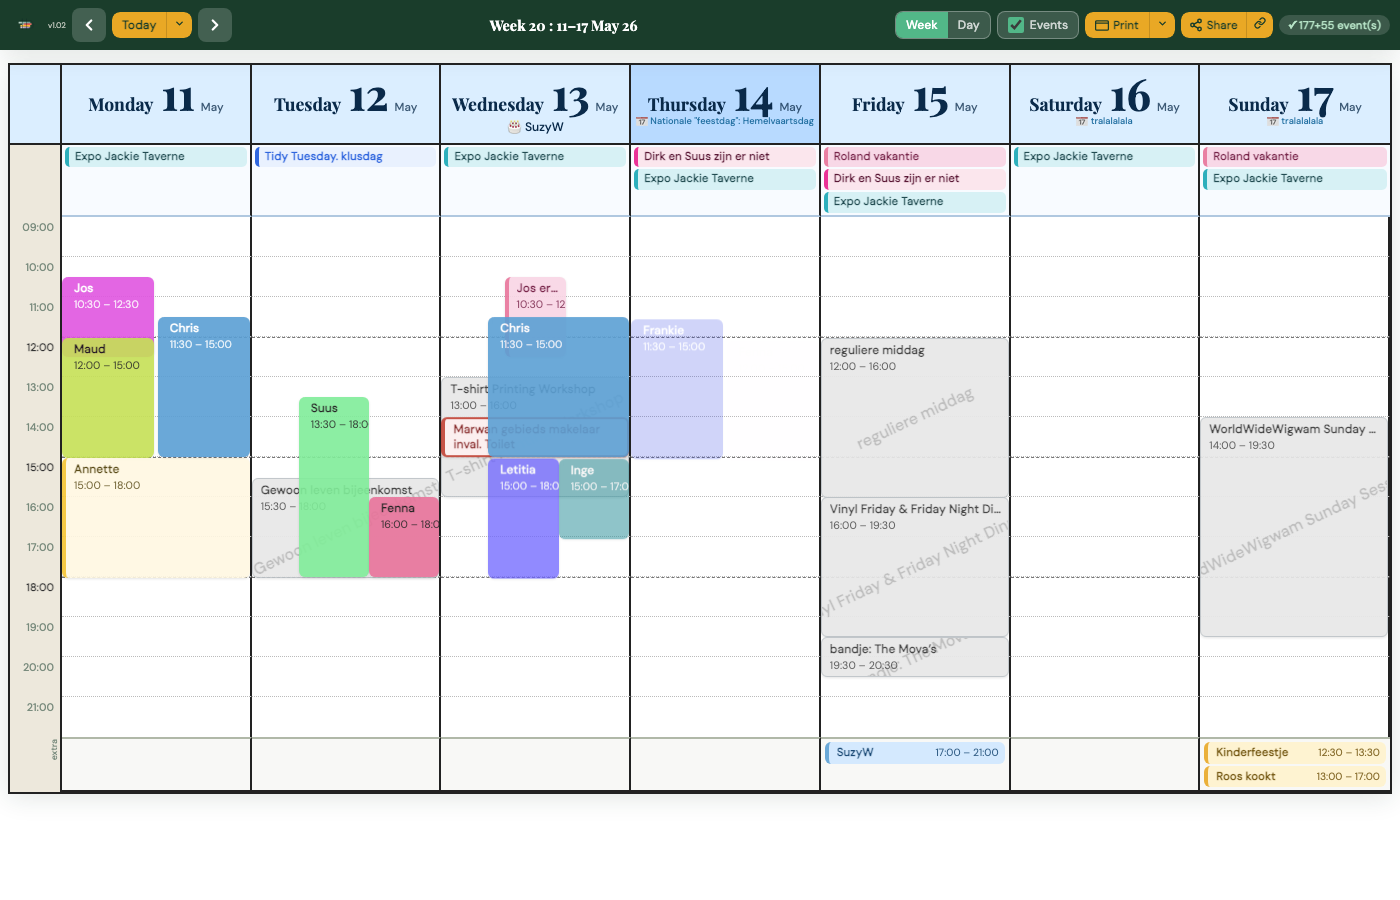
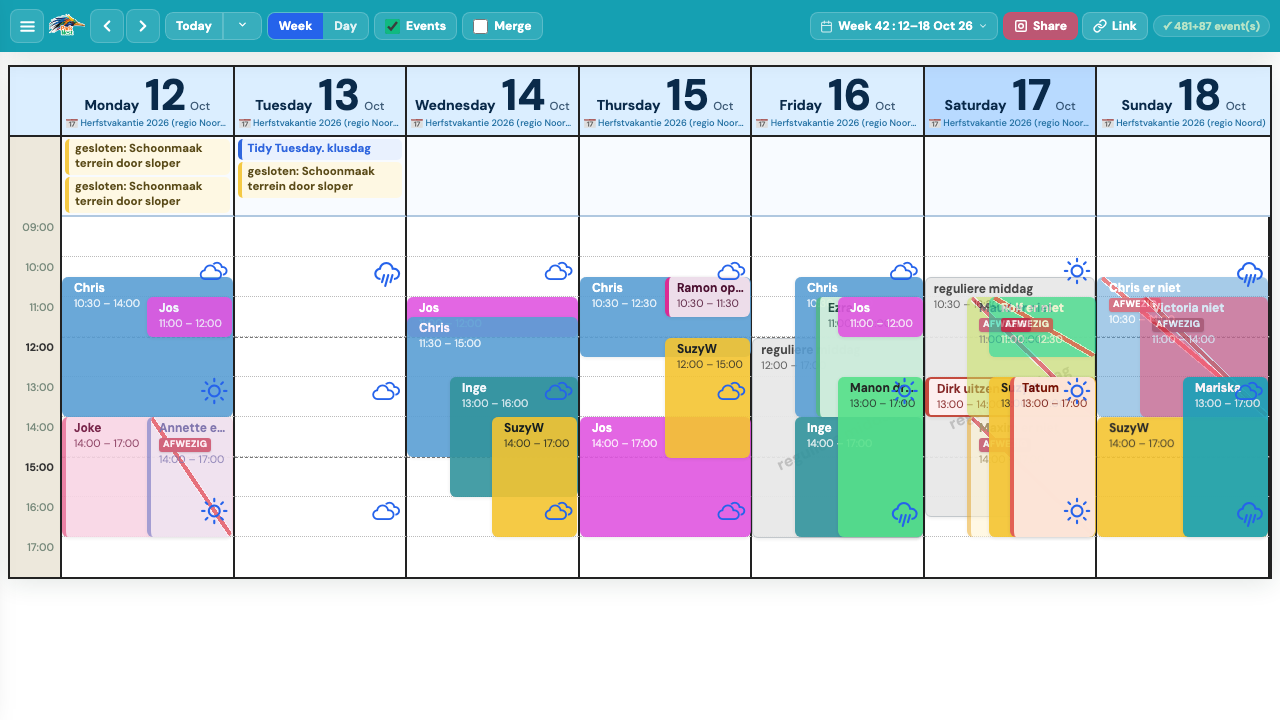
Update README and screenshot for October 2026 release
- Document weather integration, absence detection, Mono theme
- Add weather configuration section and proxy refresh=1 note
- Update themes table to all six themes
- Update architecture tree with new files (weather.php, fonts, mono.css, etc.)
- Update settings table with weather icon and temperature toggles
- Replace week-view screenshot with current live screenshot showing weather and absence features

diff --git a/README.md b/README.md
@@ -7,7 +7,7 @@
 **All rosters, calendars and events in one clear overview.**
 
 <table align="right" style="margin-left:24px;border:none">
-  <tr><td align="center"><img src="docs/screen-week-desktop.png" alt="Week view — desktop" width="600"><br><sub>Week view — desktop</sub></td></tr>
+  <tr><td align="center"><img src="docs/screen-week-desktop.png" alt="Week view — desktop with weather" width="600"><br><sub>Week view — weather integration, absence detection · October 2026</sub></td></tr>
   <tr><td align="center"><img src="docs/screen-week-tablet.png" alt="Week view — medium screen" width="400"><br><sub>Week view — medium screen (split layout)</sub></td></tr>
   <tr>
     <td align="center">
@@ -54,12 +54,14 @@ Because all these layers appear together in a single view, the connections becom
 
 - **Multi-calendar overlay** — read multiple ICS feeds and render them as one visual schedule
 - **Week view and day view** — responsive grid that adapts to desktop, tablet and phone
+- **Weather integration** — live hourly forecasts from Open-Meteo overlaid directly on the schedule as floating icon + temperature badges; weather icon and temperature display are independently toggleable in the settings panel
+- **Absence detection** — events whose title contains absence keywords (`afwezig`, `vakantie`, `niet`) are visually marked with a diagonal red stripe and an AFWEZIG badge; merge-shifts mode hides them from the schedule entirely
 - **Hours overview** — compact worked-hours report per volunteer, with week/month/year totals and inline drill-downs for payment administration
 - **Day-view week strip** — tap any day chip to navigate; selected day highlighted with a filled circle
 - **Full-screen day view** — day view stretches edge-to-edge for maximum readability
 - **Colour-coded crew** — each volunteer gets a personal colour; shifts are instantly recognisable
 - **All-day event pills** — multi-day events span across the top of the grid
-- **Important dates** — holidays, school vacations and custom date ranges shown as labels on calendar days, managed via the admin panel
+- **Important dates** — holidays, school vacations and custom date ranges shown as labels on calendar day headers, managed via the admin panel
 - **ICS import for important dates** — upload an `.ics` file; consecutive same-named events are automatically collapsed into date ranges; category prefixes (`Schoolvakantie:`, `Nationale feestdag:` etc.) are stripped automatically
 - **Always-show days** — configure which weekdays are always visible vs. hidden when empty
 - **Week start** — choose Monday or Sunday as the first day of the week (persisted per-user in a cookie)
@@ -69,8 +71,8 @@ Because all these layers appear together in a single view, the connections becom
 - **PWA** — installable on Android, iOS and desktop; "Install as app" button in the hamburger menu, including iPhone/iPad instructions
 - **Auto-update detection** — the app polls for file changes every 10 minutes and on tab focus; when a new version is deployed a pulsing badge appears on the hamburger and a reload prompt inside the drawer
 - **Auto-refresh** — configurable calendar refresh interval (5 / 15 / 30 / 60 min or off) stored per-user in a cookie; scheduled/manual refreshes force a fresh ICS fetch
-- **Hamburger drawer** — always-visible slide-in menu containing Hours overview, Print, Share, Install, Settings (theme, week start, refresh interval) and version / author info
-- **Theme system** — three built-in themes; add your own by dropping a CSS file in `app/`
+- **Hamburger drawer** — always-visible slide-in menu containing Hours overview, Print, Share, Install, Settings (theme, week start, refresh interval, weather toggles) and version / author info
+- **Theme system** — six built-in themes; add your own by dropping a CSS file in `app/`
 - **Spring-curve event animations** — crew shifts pop in with an overshoot spring animation
 - **No database** — the entire configuration lives in a single JavaScript file (`overlap-config.js`)
 
@@ -78,13 +80,17 @@ Because all these layers appear together in a single view, the connections becom
 
 ## Themes
 
-Overlap ships with three themes, selectable in the Display admin page or the in-app settings drawer:
+Overlap ships with six themes, selectable in the Display admin page or the in-app settings drawer:
 
 | Theme | Description |
 |---|---|
 | **Blockery** | Bold grid with thick black borders and large date numbers (default) |
 | **Softy** | Rounded layout with circle day labels, no black borders, white header |
-| **Nova** | Dark space aesthetic: navy/indigo header, pastel crew shifts with shimmer animation, white time column |
+| **Nova** | Dark space aesthetic: navy/indigo header, pastel crew shifts with shimmer animation |
+| **Sketchy** | Hand-drawn look with rough borders and a handwritten font |
+| **Mono** | High-contrast black-and-white; ideal for print-like clarity |
+
+Each theme includes its own weather float styling (floating icon + temperature badge on the schedule grid).
 
 To add your own theme, create `app/mytheme.css` with selectors prefixed by `body.theme-mytheme {}`. It will appear automatically in the theme selector in the admin panel.
 
@@ -112,14 +118,20 @@ Changes are written back to `overlap-config.js` immediately. The manifest (`over
 overlap/
 ├── index.php                   # Main calendar app (PHP shell — reads config for theme/branding)
 ├── app/
-│   ├── overlap.js              # Calendar engine (rendering, ICS parsing, PWA)
-│   ├── overlap.css             # Base calendar styles
+│   ├── overlap.js              # Calendar engine (rendering, ICS parsing, PWA, weather, absences)
+│   ├── overlap.css             # Base calendar styles (incl. weather floats, absence styles)
 │   ├── blockery.css            # Blockery theme marker (styles embedded in overlap.css)
 │   ├── softy.css               # Softy theme marker (styles embedded in overlap.css)
 │   ├── nova.css                # Nova dark theme — full standalone overrides
+│   ├── sketchy.css             # Sketchy hand-drawn theme
+│   ├── mono.css                # Mono high-contrast B&W theme
+│   ├── weather.php             # Server-side Open-Meteo proxy (92-day cache, stale fallback)
+│   ├── weather-icons.css       # Weather Icons 2.0.10 library (webfont-based)
+│   ├── fonts/
+│   │   └── weathericons-regular-webfont.woff2  # Weather icon webfont (SIL OFL 1.1)
 │   ├── overlap-config.js       # Live config (generated; do not edit by hand)
 │   ├── overlap-manifest.json   # PWA manifest (auto-generated from branding)
-│   ├── proxy.php               # Server-side ICS proxy and short cache
+│   ├── proxy.php               # Server-side ICS proxy and short cache (?refresh=1 to bypass)
 │   ├── icon-192.png            # PWA icon — overwritten on logo upload
 │   └── icon-512.png            # PWA icon — overwritten on logo upload
 ├── manage/
@@ -128,6 +140,7 @@ overlap/
 │   ├── volunteers.php          # Crew management
 │   ├── schedule.php            # Schedule settings + important dates + ICS import
 │   ├── display.php             # Branding + display settings + logo upload
+│   ├── admin.js                # Management panel JavaScript
 │   ├── api.php                 # AJAX endpoint (calendar test, etc.)
 │   ├── _header.php             # Shared nav header (mobile-responsive drawer)
 │   └── _footer.php             # Shared footer
@@ -136,7 +149,11 @@ overlap/
 │   └── CalendarDiagnostics.php # ICS fetch, parse and health-check
 ├── assets/
 │   ├── css/admin.css           # Admin panel styles
-│   └── js/admin.js             # Admin panel JS (crew sort, calendar test, toasts)
+│   ├── js/admin.js             # Admin panel JS (crew sort, calendar test, toasts)
+│   └── fonts/
+│       ├── handdrawn-icons.ttf # Handdrawn icon font (Sketchy theme)
+│       └── handdrawn-icons.woff
+├── weather-icons.html          # Weather icon browser / development test page
 └── uploads/
     └── logo.png                # Uploaded logo (source for icon resizing)
 ```
@@ -171,11 +188,23 @@ overlap/
 
 5. **Open `index.php`** — your calendar is live.
 
+### Weather
+
+Weather is enabled by default if `weatherEnabled: true` (or absent) in the config and `weatherLatitude` / `weatherLongitude` are set. The server-side proxy (`app/weather.php`) fetches hourly forecasts from Open-Meteo, caches them in `/tmp` for 30 minutes, and falls back to a stale cache if the upstream is unavailable. No API key required.
+
+To disable weather entirely, add to your config:
+```js
+defaults: {
+  weatherEnabled: false,
+  // ...
+}
+```
+
 ### Proxy
 
 All ICS feeds are fetched server-side through `app/proxy.php`, which:
 - Caches responses briefly (60 seconds)
-- Supports `refresh=1` for explicit/manual refreshes that bypass the local proxy cache
+- Supports `?refresh=1` for explicit/manual refreshes that bypass the local proxy cache
 - Only allows URLs listed in the configuration (no open proxy)
 
 ---
@@ -191,12 +220,13 @@ window.OVERLAP_CONFIG = {
     appShortName:   'MyOrg',
     logoUrl:        'https://example.com/logo.png',
     themeColor:     '#1a3d2b',
-    theme:          'blockery',   // blockery | softy | nova | or any app/*.css filename
+    theme:          'blockery',   // blockery | softy | nova | sketchy | mono | or any app/*.css filename
     // ...
   },
   crew: [
     { name: 'Alice', color: '#52b788' },
     { name: 'Bob',   color: '#5a9fd4', bday: '15-03' },
+    { name: 'Carol', color: '#e07a5f', aliases: ['C.', 'Carolien'] },
     // ...
   ],
   defaults: {
@@ -205,6 +235,9 @@ window.OVERLAP_CONFIG = {
     mainEventCalendarUrl: 'https://calendar.google.com/calendar/ical/…',
     weekStartDay:         1,           // 0 = Sunday, 1 = Monday
     alwaysShowDays:       [0,1,3,4,5,6],
+    weatherEnabled:       true,
+    weatherLatitude:      52.3608,
+    weatherLongitude:     4.9487,
     importantDates: [
       { date: '2026-12-25', label: 'Christmas' },
       { date: '2026-07-01', endDate: '2026-08-31', label: 'Summer vacation' },
@@ -228,7 +261,7 @@ An example file with all options and empty sensitive values is provided at `app/
 
 The **Schedule** admin page lets you define holidays, school vacations and other notable dates that appear as labels on calendar day headers.
 
-- Single day: just set a **From** date and a **Label**
+- Single day: just set a **Label** and a **From** date
 - Date range: set both **From** and **Until**
 
 You can also **import an `.ics` file** (e.g. a national holiday calendar or school vacation feed). The importer:
@@ -265,11 +298,11 @@ Clicking the hamburger icon opens a slide-in drawer available on all screen size
 | Install | Install as PWA; on iPhone/iPad the button shows Safari Add to Home Screen instructions |
 | Afdrukken | Landscape or portrait print |
 | Delen | Share as image / copy link |
-| Instellingen | Theme, week start day |
+| Instellingen | Theme, week start day, weather icon toggle, temperature toggle |
 | Automatisch vernieuwen | 5 / 15 / 30 / 60 min or off — stored per-user in a cookie |
 | Footer | App version, author link, manage link |
 
-Theme and week-start changes trigger a page reload to apply. The refresh interval is applied instantly without reloading.
+Theme and week-start changes trigger a page reload to apply. The refresh interval and weather toggles are applied instantly without reloading.
 
 ---
 
